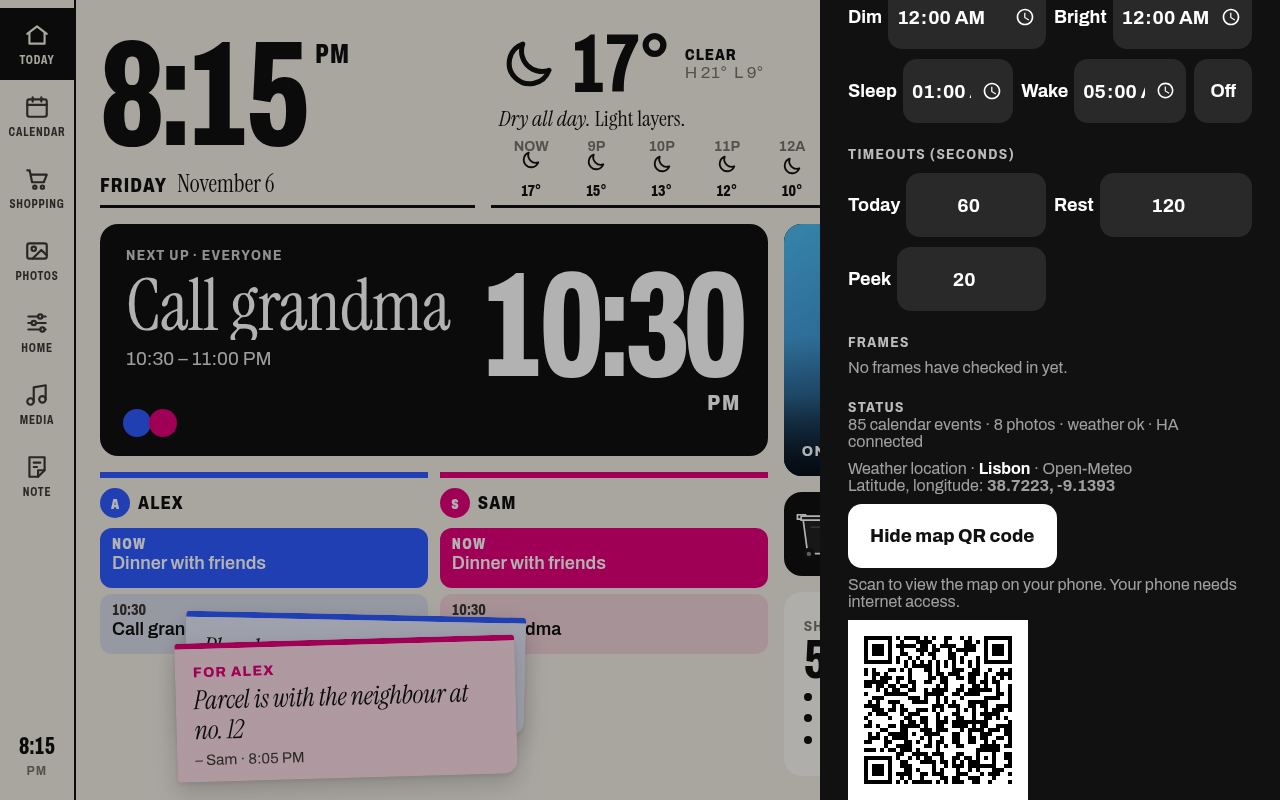
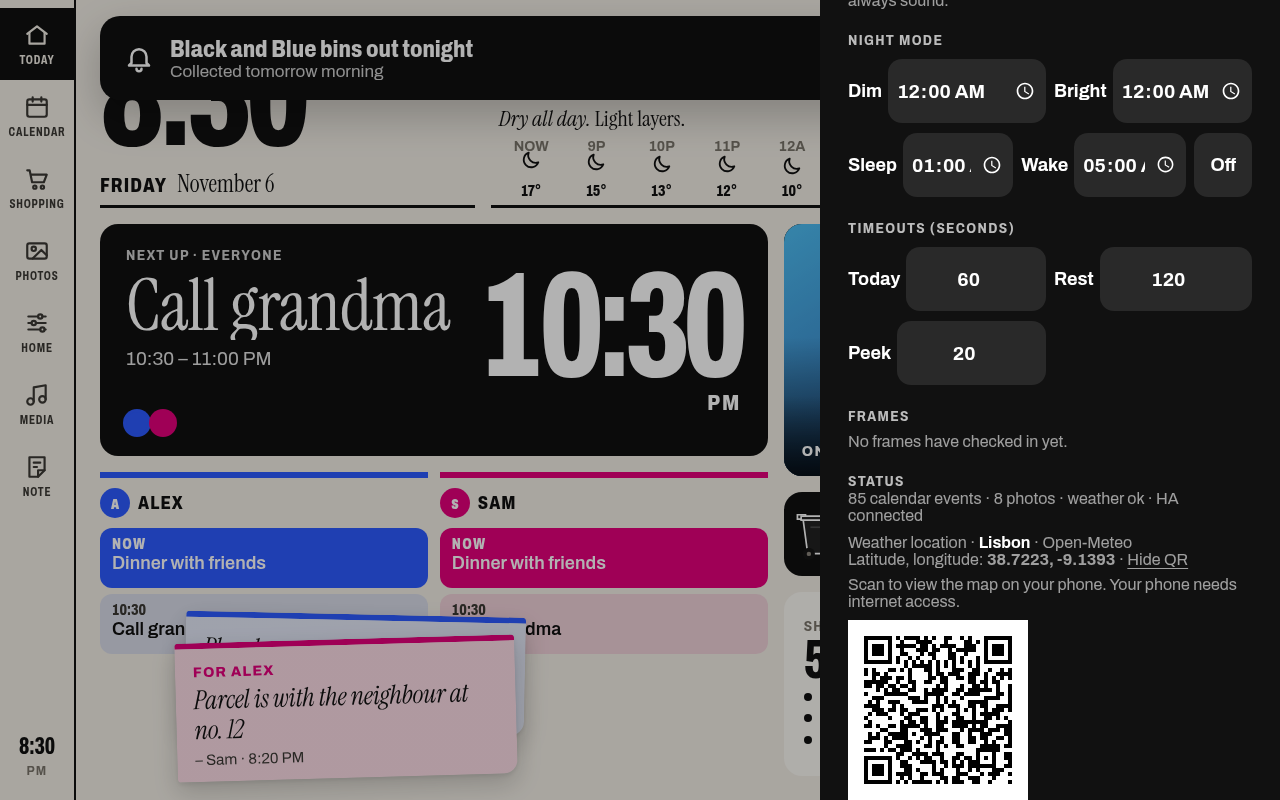
Use a subtle inline control for the weather QR

diff --git a/frontend/js/system.js b/frontend/js/system.js
@@ -234,8 +234,8 @@
     var url = 'https://www.openstreetmap.org/?mlat=' + encodeURIComponent(loc.lat) + '&mlon=' + encodeURIComponent(loc.lon) + '#map=12/' + encodeURIComponent(loc.lat) + '/' + encodeURIComponent(loc.lon);
     var name = typeof loc.name === 'string' ? loc.name.trim() : '';
     return '<p>Weather location · ' + (name ? '<b class="demo-weather-city">' + App.esc(name) + '</b> · ' : '') +
-      'Open-Meteo<br>Latitude, longitude: <b>' + App.esc(coords) + '</b></p>' +
-      '<div class="demo-test"><button data-weather-map data-map-url="' + App.esc(url) + '" aria-expanded="false" aria-controls="demoWeatherMap">Show map QR code</button></div>' +
+      'Open-Meteo<br>Latitude, longitude: <b>' + App.esc(coords) + '</b> · ' +
+      '<button class="demo-weather-toggle" data-weather-map data-map-url="' + App.esc(url) + '" aria-expanded="false" aria-controls="demoWeatherMap">Show QR</button></p>' +
       '<div id="demoWeatherMap" hidden><p>Scan to view the map on your phone. Your phone needs internet access.</p>' +
       '<div class="demo-weather-qr" role="img" aria-label="QR code to open the weather location in OpenStreetMap"></div></div>';
   }
@@ -320,7 +320,7 @@
       if (show && !map.querySelector('svg')) map.querySelector('.demo-weather-qr').innerHTML = App.share.qrSvg(b.getAttribute('data-map-url'), 180);
       map.hidden = !show;
       b.setAttribute('aria-expanded', String(show));
-      b.textContent = show ? 'Hide map QR code' : 'Show map QR code';
+      b.textContent = show ? 'Hide QR' : 'Show QR';
       return;
     }
     if (b.hasAttribute('data-adb')) {

diff --git a/frontend/css/base.css b/frontend/css/base.css
@@ -285,6 +285,8 @@ button.card:active, .h-hero:active, .h-photo:active { transform: scale(.985); }
 .demo-weather { margin-top: 10px; overflow-wrap: anywhere; }
 .demo-weather p { margin: 8px 0; }
 .demo-weather-city { color: #fff; }
+.demo-weather-toggle { padding: 6px 0; margin: -6px 0; background: none; color: inherit; font: inherit; text-decoration: underline; text-underline-offset: 3px; }
+.demo-weather-toggle:hover, .demo-weather-toggle:focus-visible { color: #fff; }
 .demo-weather-qr { line-height: 0; margin-top: 10px; }
 .demo-weather-qr svg { max-width: 100%; height: auto; }
 .demo-test { display: flex; gap: 8px; margin-top: 10px; }

diff --git a/README.md b/README.md
@@ -73,7 +73,7 @@ empty `frontend/dist`.
 
 The Status debug section at the bottom of Display Controls shows the configured weather coordinates and optional city label from
 `settings.location.name` (for example, `"Lisbon"`). The label is configured alongside `lat` and
-`lon`, not looked up online. Click **Show map QR code** to reveal a locally generated QR code that opens the location in OpenStreetMap
+`lon`, not looked up online. Click **Show QR** to reveal a locally generated QR code that opens the location in OpenStreetMap
 on a phone with internet access; displaying the label and QR needs no internet on the kiosk.
 
 ### Photo frame behaviour
